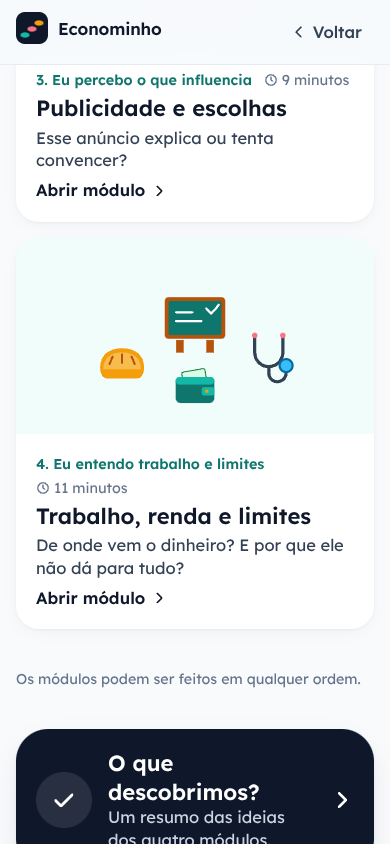
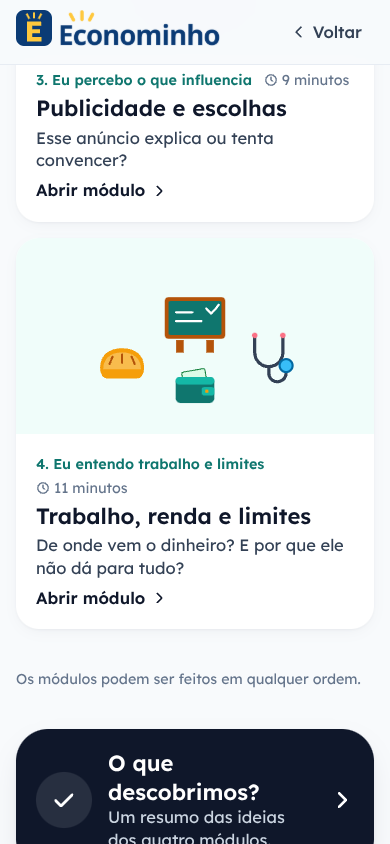
docs: marca Econominho no Design System e screenshots atualizados
Claude-Session: https://claude.ai/code/session_01NytpAGNTnMRSbdkYTMAr3E

Changed region(s): [[0.0308, 0.0, 0.5846, 0.0616]]

diff --git a/docs/design-system.md b/docs/design-system.md
@@ -54,7 +54,19 @@ A tela de idades mostra as quatro expressões lado a lado.
 
 ## Marca
 
-Nome visível: **Econominho**. Identificadores técnicos (nome do repositório e do pacote, domínio, prefixo de cache `fm-`) continuam com o nome anterior nesta etapa. O símbolo de três pedras e os ícones do PWA são provisórios. A arte do personagem Econominho está **pendente de aprovação** e não faz parte deste Design System.
+Fonte: pacote `econominho-assets-v1` (arquivos de marca técnicos provisórios, direção visual aprovada).
+
+| Arquivo                                     | Uso                                                                          |
+| ------------------------------------------- | ---------------------------------------------------------------------------- |
+| `public/brand/econominho-wordmark.png`      | Logotipo "Econominho" no cabeçalho (`Brand`) e na imagem Open Graph          |
+| `public/brand/econominho-wordmark-mono.png` | Versão monocromática, para fundos de uma cor                                 |
+| `public/brand/econominho-icon.svg`          | Ícone "E" com raios; origem de `public/icons/*`, `favicon.ico` e `BrandMark` |
+
+Cores da marca: navy `#0B3B75` e amarelo `#FFC83D`. Ficam restritas ao logotipo e aos ícones; a interface continua usando a paleta abaixo.
+
+Para regenerar favicon, ícones do PWA e `og.png` depois de mudar a marca: `node scripts/generate-icons.mjs`.
+
+Nome visível: **Econominho**. Identificadores técnicos (repositório, pacote, domínio, prefixo de cache `fm-`) continuam com o nome anterior nesta etapa.
 
 ## Tipografia
 
